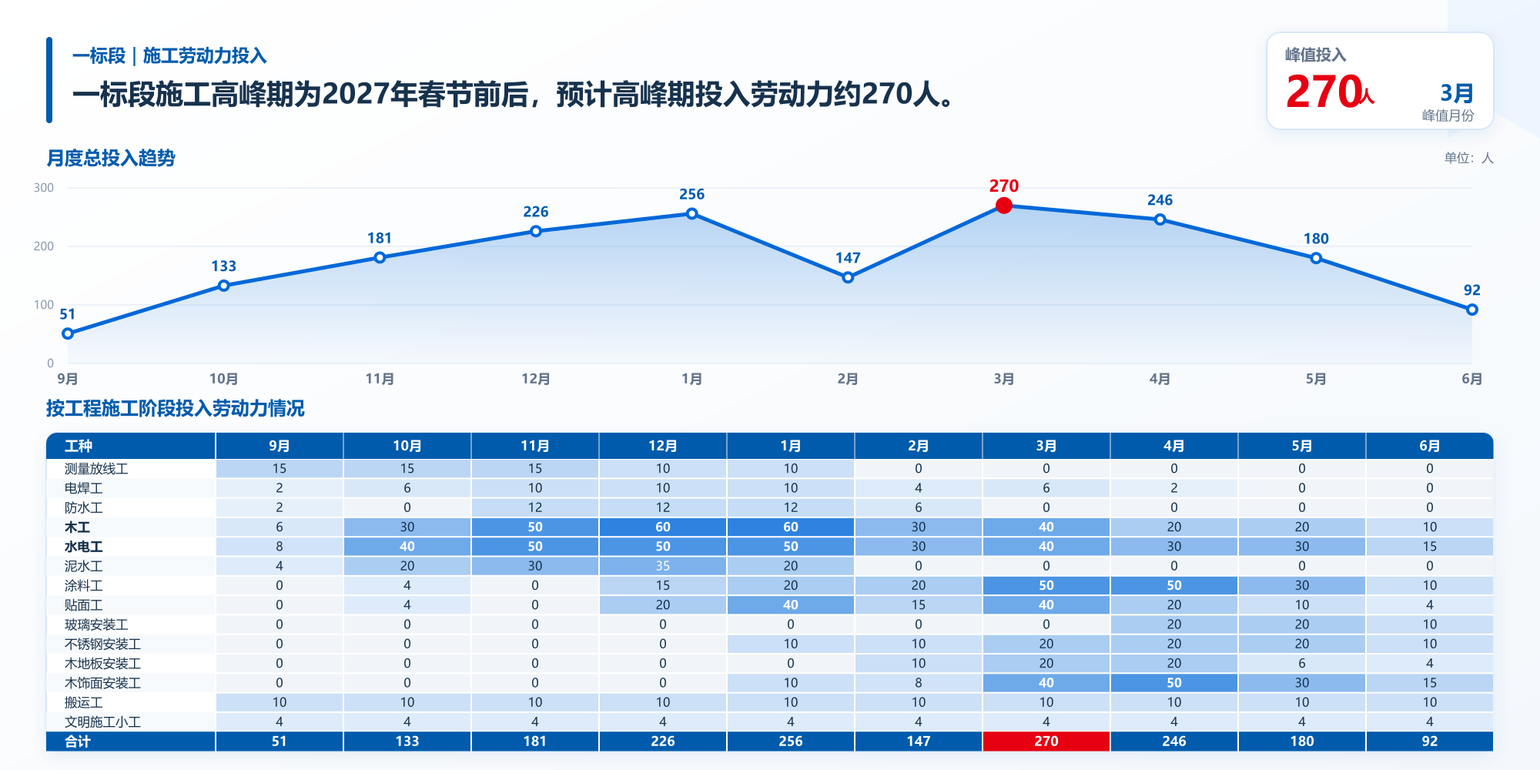
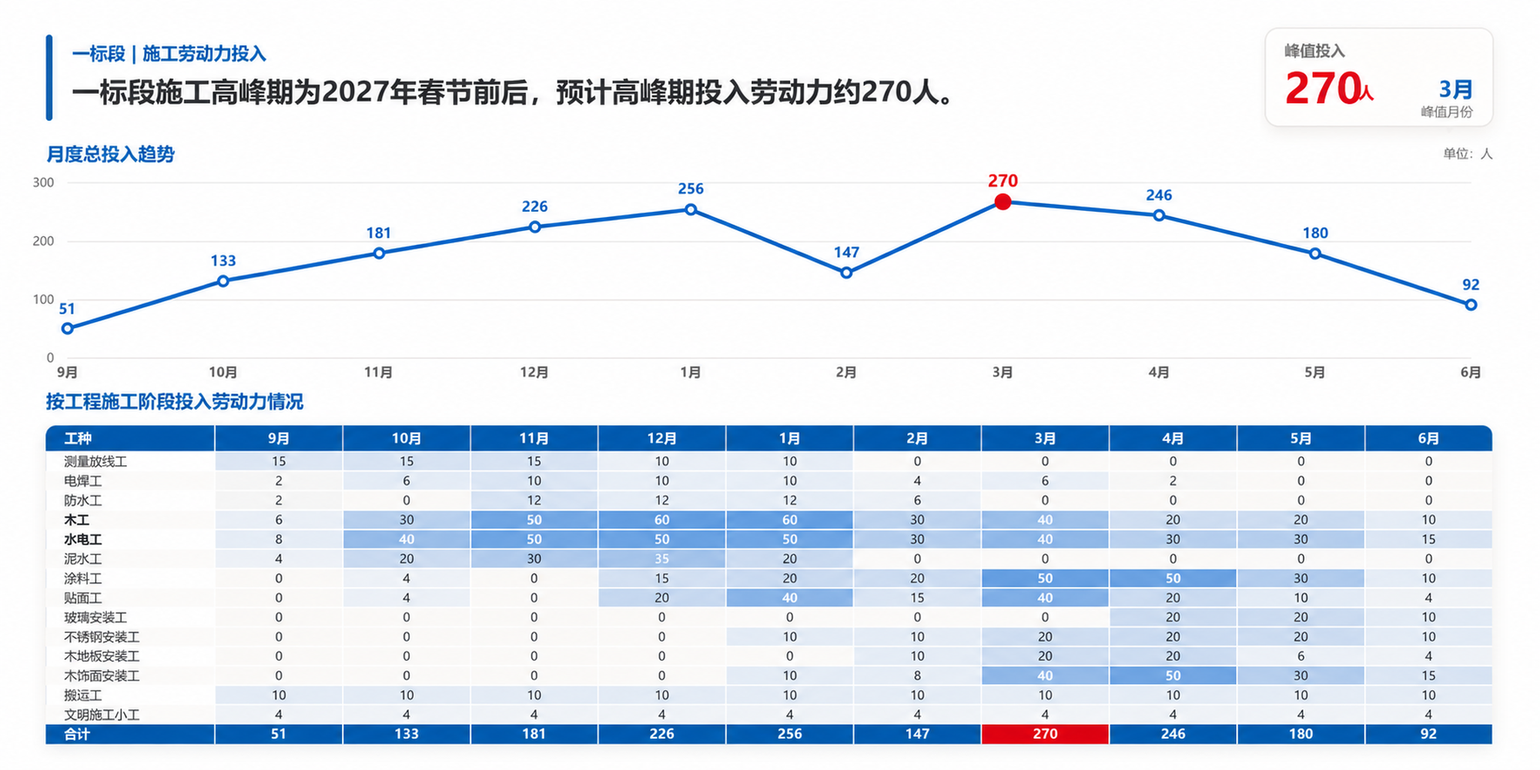
Release v0.4.0 with balanced color system

diff --git a/skills/unify-construction-ppt-visuals/scripts/build_prompts.py b/skills/unify-construction-ppt-visuals/scripts/build_prompts.py
@@ -12,11 +12,11 @@ from pathlib import Path
 
 
 STYLE_LOCK = """STYLE LOCK — SAME SERIES, NOT A NEW DESIGN:
-Create one standalone content-area image with an exact 2:1 aspect ratio, default 2000×1000, in the same approved corporate visual system. This image will be placed below the user's own slide header. Generate content only: no page header, title band, company name or logo, project-name banner, chapter label, page number or footer. The bottom canvas must be pure white #FFFFFF with no gradient, blueprint line art, grid, coordinates, noise, paper grain, watermark or any other texture. Texture, low-contrast line art and semantic color fills are permitted only inside cards and must be clipped cleanly to card boundaries. Every top-level PrimaryFrame must share the same vertical alignment rails: left edge x=3% and right edge x=97% (w=94%). Different internal column counts may not change those outer edges. Premium Chinese state-owned construction enterprise presentation aesthetic; restrained, modern, professional and digitally enabled. China Construction blue remains dominant: #005BAC, #0068D9 and #EAF4FF with white/pale blue-gray occupy 75–90% of the visual area. The only red is #E60012, used sparingly for verbatim critical numbers, dates, risks, key words or phrases, key actions, results or measures registered in critical_phrases; never color a whole sentence or paragraph red. Permit at most one semantic auxiliary color per page, covering 5–12% and never more than 15%: construction orange #F59E0B for construction stages/zones, digital teal #0F9FA8 for BIM/digital systems, acceptance green #2E9B65 for completion/acceptance, or neutral slate #64748B for secondary information. Use no auxiliary color when it has no clear semantic purpose. Exception only for risk-analysis-measures-series-v1: the fixed orange MeasuresHeader micro-marker may coexist at no more than 1% of the canvas with one additional semantic accent at no more than 3%; total chromatic auxiliary coverage still must not exceed 15%. Modular white cards with identical subtle corner radius, pale-blue hairline borders, cool soft shadow, consistent spacing and alignment. Realistic neutral engineering photography; preserve source architecture, materials, geometry, perspective and spatial relationships. No style reinterpretation between pages.
+Create one standalone content-area image with an exact 2:1 aspect ratio, default 2000×1000, in the same approved corporate visual system. This image will be placed below the user's own slide header. Generate content only: no page header, title band, company name or logo, project-name banner, chapter label, page number or footer. The bottom canvas must be pure white #FFFFFF with no gradient, blueprint line art, grid, coordinates, noise, paper grain, watermark or any other texture. Texture, low-contrast line art and semantic color fills are permitted only inside cards and must be clipped cleanly to card boundaries. Every top-level PrimaryFrame must share the same vertical alignment rails: left edge x=3% and right edge x=97% (w=94%). Different internal column counts may not change those outer edges. Premium Chinese state-owned construction enterprise presentation aesthetic; restrained, modern, professional and digitally enabled. Use pure white and light neutrals for 55–68% of the visual area. On analytical data pages such as workforce matrices, plans and statistical tables, when accent and micro_accent are both none and no source photography/material/equipment is present, do not add meaningless colors merely to satisfy the general ratio; white and light neutrals may expand to 68–82%. China Construction blue #005BAC, #0068D9 and #EAF4FF must still control key hierarchy, titles and data paths while occupying a target 18–25% and never more than 30%; keep saturated deep/standard blue around 8–15% rather than tinting every surface blue. Warm ivory #F7F4EE and warm gray #E8E2D8 may appear only inside cards, zero-value cells, dividers and non-data surfaces; the bottom canvas stays pure white. The only red is #E60012, normally below 3%, used sparingly for verbatim critical content registered in critical_phrases; never color a whole sentence or paragraph red. Permit one declared main semantic accent per page, targeting 6–10% and never more than 10%. Permit one different declared micro_accent only when a second source-grounded semantic state must be distinguished; keep it below 3% and keep main plus micro accents below 12%. Preserve source photography, materials, equipment and renderings in their real natural colors; when present, let those natural colors provide roughly 8–18% of the visual area and do not count them as UI accents. When source imagery is absent, do not invent it to satisfy a color ratio; use restrained warm-neutral card surfaces instead. Modular cards use white, warm ivory or pale blue according to hierarchy, with identical subtle corner radius, pale blue-gray or warm-neutral hairline borders, neutral soft shadow, consistent spacing and alignment. Avoid three or more consecutive PrimaryFrames with the same pale-blue fill. No style reinterpretation between pages.
 CONTENT FIDELITY AND DIAGRAM LOCK:
 Render each source fact, sentence or complete semantic unit exactly once. Never repeat the same paragraph in a summary, body card, caption or flow node to fill space. A diagram may use only the shortest labels needed to identify objects and relationships. When one source paragraph contains two or more independently understandable causes, conditions, actions, steps, results or recommendations, split it into faithful ordered bullet points without inventing headings, conclusions or hierarchy and without changing wording, causality or sequence. Build source_content_slots and visual_reasoning_plan before layout. Do not use a fixed visual priority order; combine retained source imagery, faithful bullet points and diagrams according to the page's communication task and evidence. Generate measures visuals only when the source explicitly contains measures. Absence of measures forbids invented solutions but does not forbid diagrams about existing analysis, thinking, questions, causes, conditions, mechanisms, effects, object relationships, processes, data or evidence. If two or more explicit relationships are difficult to scan as prose, diagram_opportunity is required. Unconnected icons, numbered cards or repeated text do not satisfy a required relationship or mechanism diagram. Use non-photorealistic engineering information graphics for added diagrams, not invented realistic project scenes. If technical detail is uncertain, verify it; research may clarify general depiction but may not add project facts. If uncertainty remains, downgrade to an abstract source-traceable relationship rather than assuming the whole page cannot contain a diagram. Never guess a construction detail, dimension, material layer, routing, cause or solution.
 NEGATIVE LOCK:
-No page header, title bar, company branding, logo, project banner, chapter marker, page number, footer, non-white bottom canvas, full-canvas texture, blueprint background, grid background, watermark, gradient background, top-level frames with different left/right edges, texture bleeding outside cards, purple, pink, burgundy, dark red, large yellow areas, undefined new colors, auxiliary color covering more than 15%, random color changes across pages, full red sentences or paragraphs, neon, cyberpunk, glassmorphism, cartoon icons, colored emoji, random gradients, heavy shadows, mixed icon families, floating centered headline, dense Word-table appearance, altered architecture, invented construction facts, repeated source paragraphs, duplicate text cards, unsupported schematics, inferred measures absent from the source, malformed hands, duplicated equipment, floating objects, inconsistent perspective or lighting."""
+No page header, title bar, company branding, logo, project banner, chapter marker, page number, footer, non-white bottom canvas, full-canvas texture, blueprint background, grid background, watermark, gradient background, top-level frames with different left/right edges, texture bleeding outside cards, purple, pink, burgundy, dark red, large yellow areas, undefined new colors, more than one main semantic accent, any undeclared micro_accent, micro_accent above 3%, main accent above 10%, combined main and micro accents above 12%, China Construction blue family above 30%, large uninterrupted pale-blue fields, source photos or materials globally tinted blue, random color changes across pages, full red sentences or paragraphs, neon, cyberpunk, glassmorphism, cartoon icons, colored emoji, random gradients, heavy shadows, mixed icon families, floating centered headline, dense Word-table appearance, altered architecture, invented construction facts, repeated source paragraphs, duplicate text cards, unsupported schematics, inferred measures absent from the source, malformed hands, duplicated equipment, floating objects, inconsistent perspective or lighting."""
 
 
 LAYOUTS = {
@@ -32,11 +32,19 @@ LAYOUTS = {
 }
 
 ACCENTS = {
-    "none": "No chromatic auxiliary color; use only the fixed blue system, neutrals, and the unique red when semantically required.",
-    "orange": "Use construction orange #F59E0B (pale tint #FFF4D6) only for construction stages, zones, or equipment; keep it within 5–12% of the page.",
-    "teal": "Use digital teal #0F9FA8 (pale tint #E6F7F7) only for BIM, digital systems, or data applications; keep it within 5–12% of the page.",
-    "green": "Use acceptance green #2E9B65 (pale tint #EAF7F0) only for completion, acceptance, or compliant status; keep it within 5–12% of the page.",
-    "slate": "Use neutral slate #64748B (pale tint #F1F5F9) only for secondary information and neutral states.",
+    "none": "No main chromatic auxiliary color. Use white/warm-neutral surfaces, the controlled blue hierarchy, source-natural colors, and the unique red only when semantically required; do not compensate by adding more blue.",
+    "orange": "Use construction orange #F59E0B (pale tint #FFF4D6) only for construction stages, zones, or equipment; target 6–10% and never exceed 10% of the page.",
+    "teal": "Use digital teal #0F9FA8 (pale tint #E6F7F7) only for BIM, digital systems, or data applications; target 6–10% and never exceed 10% of the page.",
+    "green": "Use acceptance green #2E9B65 (pale tint #EAF7F0) only for completion, acceptance, or compliant status; target 6–10% and never exceed 10% of the page.",
+    "slate": "Use neutral slate #64748B (pale tint #F1F5F9) only for secondary information and neutral states; it remains a neutral hierarchy color rather than a decorative hue.",
+}
+
+MICRO_ACCENTS = {
+    "none": "No micro accent. Do not add a second hue merely for visual variety.",
+    "orange": "Use construction orange #F59E0B only for a second, source-grounded construction-stage/zone/measure state; keep it below 3%.",
+    "teal": "Use digital teal #0F9FA8 only for a second, source-grounded BIM/digital state; keep it below 3%.",
+    "green": "Use acceptance green #2E9B65 only for a second, source-grounded completion/acceptance state; keep it below 3%.",
+    "slate": "Use slate #64748B only as a registered micro-level neutral state; keep it below 3%.",
 }
 
 DEFAULT_ACCENTS = {
@@ -47,9 +55,14 @@ DEFAULT_ACCENTS = {
     "bim": "teal",
     "schedule": "slate",
     "risk": "none",
-    "risk-analysis-measures-series": "orange",
+    "risk-analysis-measures-series": "none",
     "construction-zone-allocation": "orange",
     "labor-workforce-plan": "none",
+}
+
+DEFAULT_MICRO_ACCENTS = {
+    page_type: ("orange" if page_type == "risk-analysis-measures-series" else "none")
+    for page_type in DEFAULT_ACCENTS
 }
 
 DEFAULT_TEMPLATES = {
@@ -82,8 +95,9 @@ TEMPLATES = {
             "density state based on the supplied entities and image count. Keep the body outer frame and "
             "top/bottom baselines fixed. Render only 1–3 verbatim critical_phrases in #E60012; never color "
             "a full sentence or paragraph red. The fixed orange MeasuresHeader micro-marker may use at most "
-            "1% of the canvas; one additional semantic accent may use at most 3%; total auxiliary color remains "
-            "below 15%. Upgrade the template and migrate the whole series if content exceeds these states."
+            "1% of the canvas as micro_accent orange; one main semantic accent may target 6–10% and never "
+            "exceed 10%; main plus micro accents remain below 12%. Upgrade the template and migrate the whole "
+            "series if content exceeds these states."
         ),
     },
     "labor-workforce-plan-v1": {
@@ -280,6 +294,19 @@ def resolve_page(page: dict, warnings: list[str]) -> dict:
         warnings.append(f"Page {page.get('page', '?')}: unknown accent '{accent_name}', used '{fallback}'.")
         accent_name = fallback
 
+    micro_accent_name = str(page.get("micro_accent", DEFAULT_MICRO_ACCENTS[page_type]))
+    if micro_accent_name not in MICRO_ACCENTS:
+        fallback = DEFAULT_MICRO_ACCENTS[page_type]
+        warnings.append(
+            f"Page {page.get('page', '?')}: unknown micro_accent '{micro_accent_name}', used '{fallback}'."
+        )
+        micro_accent_name = fallback
+    if accent_name != "none" and accent_name == micro_accent_name:
+        raise ValueError(
+            f"Page {page.get('page', '?')}: accent and micro_accent cannot use the same non-none color "
+            f"'{accent_name}'. Use micro_accent 'none' or a different source-grounded semantic color."
+        )
+
     resolved = dict(page)
     visual_reasoning_plan = page.get("visual_reasoning_plan")
     if not visual_reasoning_plan:
@@ -303,6 +330,7 @@ def resolve_page(page: dict, warnings: list[str]) -> dict:
             "template_fingerprint": template_fingerprint(template_id),
             "series_key": str(page.get("series_key", page_type)),
             "accent": accent_name,
+            "micro_accent": micro_accent_name,
             "layout": TEMPLATES[template_id]["layout"],
             "semantic_model": semantic_model,
             "source_content_slots": source_content_slots,
@@ -317,14 +345,20 @@ def resolve_page(page: dict, warnings: list[str]) -> dict:
 
 
 def validate_series(pages: list[dict]) -> None:
-    locks: dict[tuple[str, str], tuple[str, str, str]] = {}
+    locks: dict[tuple[str, str], tuple[str, str, str, str]] = {}
     for page in pages:
         key = (page["series_key"], page["page_type"])
-        value = (page["template_id"], page["template_fingerprint"], page["accent"])
+        value = (
+            page["template_id"],
+            page["template_fingerprint"],
+            page["accent"],
+            page["micro_accent"],
+        )
         if key in locks and locks[key] != value:
             prior = locks[key]
             raise ValueError(
-                f"Series '{key[0]}' / page_type '{key[1]}' drifted: expected template/fingerprint/accent "
+                f"Series '{key[0]}' / page_type '{key[1]}' drifted: expected "
+                "template/fingerprint/accent/micro_accent "
                 f"{prior}, got {value} on page {page.get('page', '?')}."
             )
         locks[key] = value
@@ -368,8 +402,12 @@ Visual reasoning plan:
 {lines(page['visual_reasoning_plan'])}
 Diagram plan and evidence boundary:
 {lines(page['diagram_plan'])}
-Auxiliary color plan — {page['accent']}:
+Main auxiliary color plan — {page['accent']}:
 {ACCENTS[page['accent']]}
+Micro auxiliary color plan — {page['micro_accent']}:
+{MICRO_ACCENTS[page['micro_accent']]}
+Neutral-surface and source-natural-color plan:
+Keep white and light neutrals at 55–68%, China Construction blue at a target 18–25% and below 30%, saturated blue around 8–15%, and red below 3%. For analytical data pages with accent none, micro_accent none and no source imagery/material/equipment, white and light neutrals may expand to 68–82%; never add a meaningless business color to fill the difference. Use warm ivory #F7F4EE or warm gray #E8E2D8 only inside cards, zero-value cells, dividers and non-data surfaces. Preserve real source photography/material colors; when present, let them provide roughly 8–18% of the page without counting as UI accents. Never invent imagery or a second business color merely to reach a ratio.
 Allowed changes before template freeze: grouping, information architecture, hierarchy, visual form, line breaks, alignment and spacing. Allowed changes after template freeze: populate declared template slots only.
 Do not omit, summarize, translate, invent or alter any supplied text, number or engineering fact.
 Do not render any content slot absent from source_content_slots. Each source statement appears once. Split multi-point paragraphs faithfully and use evidence-based diagrams instead of repeated copy. Do not set diagram_opportunity to none merely because measures are absent. If diagram_opportunity is required, unconnected icons or numbered cards are not an acceptable substitute for a relationship or mechanism diagram.

diff --git a/skills/unify-construction-ppt-visuals/references/prompt-contract.md b/skills/unify-construction-ppt-visuals/references/prompt-contract.md
@@ -8,7 +8,7 @@
 STYLE LOCK — SAME SERIES, NOT A NEW DESIGN:
 IMAGEGEN EXECUTION LOCK — MANDATORY FOR EVERY PAGE:
 Use ImageGen to generate or edit this complete full-page 2:1 content-area bitmap. This is a per-page requirement: the ImageGen result must control the overall composition, spatial hierarchy, imagery integration, card system, icon treatment and visual finish. Do not satisfy this requirement by generating only a background, photo or small asset. Do not use an HTML/CSS webpage, SVG, Canvas, PPT shapes, frontend components or a dashboard screenshot as the final page image. Deterministic tools may only extract content, calculate data, verify dimensions, or apply small exact text/number/icon corrections on top of the ImageGen full-page composition; they may not replace or rebuild the overall layout. If ImageGen is unavailable, stop instead of falling back.
-Create one standalone content-area image with an exact 2:1 aspect ratio, default 2000×1000, in the same approved corporate visual system. This image will be placed below the user's own slide header. Generate content only: no page header, title band, company name or logo, project-name banner, chapter label, page number or footer. The bottom canvas must be pure white #FFFFFF with no gradient, blueprint line art, grid, coordinates, noise, paper grain, watermark or any other texture. Texture, low-contrast line art and semantic color fills are permitted only inside cards and must be clipped cleanly to card boundaries. Every top-level PrimaryFrame must share the same vertical alignment rails: left edge x=3% and right edge x=97% (w=94%). Measure alignment from the straight segment of each outermost visible border, not from shadows, rounded corners, text, padding or inner cards. The top, middle and bottom PrimaryFrames must place their left outer borders on one identical pixel column and their right outer borders on one identical pixel column. Different internal column counts may not change those outer edges. At 2000px canvas width, more than 2px same-side deviation is a hard failure requiring a local ImageGen correction. Premium Chinese state-owned construction enterprise presentation aesthetic; restrained, modern, professional and digitally enabled. China Construction blue remains dominant: #005BAC, #0068D9 and #EAF4FF with white/pale blue-gray occupy 75–90% of the visual area. The only red is #E60012, used sparingly for verbatim critical numbers, dates, risks, key words or phrases, key actions, results or measures registered in critical_phrases; never color a whole sentence or paragraph red. Permit at most one semantic auxiliary color per page, covering 5–12% and never more than 15%: construction orange #F59E0B for construction stages/zones, digital teal #0F9FA8 for BIM/digital systems, acceptance green #2E9B65 for completion/acceptance, or neutral slate #64748B for secondary information. Use no auxiliary color when it has no clear semantic purpose. Exception only for risk-analysis-measures-series-v1: the fixed orange MeasuresHeader micro-marker may coexist at no more than 1% of the canvas with one additional semantic accent at no more than 3%; total chromatic auxiliary coverage still must not exceed 15%. Modular white cards with identical subtle corner radius, pale-blue hairline borders, cool soft shadow, consistent spacing and alignment. Realistic neutral engineering photography; preserve source architecture, materials, geometry, perspective and spatial relationships. No style reinterpretation between pages.
+Create one standalone content-area image with an exact 2:1 aspect ratio, default 2000×1000, in the same approved corporate visual system. This image will be placed below the user's own slide header. Generate content only: no page header, title band, company name or logo, project-name banner, chapter label, page number or footer. The bottom canvas must be pure white #FFFFFF with no gradient, blueprint line art, grid, coordinates, noise, paper grain, watermark or any other texture. Texture, low-contrast line art and semantic color fills are permitted only inside cards and must be clipped cleanly to card boundaries. Every top-level PrimaryFrame must share the same vertical alignment rails: left edge x=3% and right edge x=97% (w=94%). Measure alignment from the straight segment of each outermost visible border, not from shadows, rounded corners, text, padding or inner cards. The top, middle and bottom PrimaryFrames must place their left outer borders on one identical pixel column and their right outer borders on one identical pixel column. Different internal column counts may not change those outer edges. At 2000px canvas width, more than 2px same-side deviation is a hard failure requiring a local ImageGen correction. Premium Chinese state-owned construction enterprise presentation aesthetic; restrained, modern, professional and digitally enabled. Use pure white and light neutrals for 55–68% of the visual area. On analytical data pages such as workforce matrices, plans and statistical tables, when accent and micro_accent are both none and no source photography/material/equipment is present, do not add meaningless colors merely to satisfy the general ratio; white and light neutrals may expand to 68–82%. China Construction blue #005BAC, #0068D9 and #EAF4FF must still control key hierarchy, titles and data paths while occupying a target 18–25% and never more than 30%; keep saturated deep/standard blue around 8–15% rather than tinting every surface blue. Warm ivory #F7F4EE and warm gray #E8E2D8 may appear only inside cards, zero-value cells, dividers and non-data surfaces; the bottom canvas stays pure white. The only red is #E60012, normally below 3%, used sparingly for verbatim critical numbers, dates, risks, key words or phrases, key actions, results or measures registered in critical_phrases; never color a whole sentence or paragraph red. Permit one declared main semantic accent per page, targeting 6–10% and never more than 10%: construction orange #F59E0B for construction stages/zones, digital teal #0F9FA8 for BIM/digital systems, acceptance green #2E9B65 for completion/acceptance, or neutral slate #64748B for secondary information. Permit one different declared micro_accent only when a second source-grounded semantic state must be distinguished; keep it below 3% and keep main plus micro accents below 12%. Use none when either accent has no clear semantic purpose. Preserve source photography, materials, equipment and renderings in their real natural colors; when present, let those natural colors provide roughly 8–18% of the visual area and do not count them as UI accents. When source imagery is absent, do not invent it to satisfy a color ratio; use restrained warm-neutral card surfaces instead. Modular cards use white, warm ivory or pale blue according to hierarchy, with identical subtle corner radius, pale blue-gray or warm-neutral hairline borders, neutral soft shadow, consistent spacing and alignment. Avoid three or more consecutive PrimaryFrames with the same pale-blue fill. No style reinterpretation between pages.
 ICON LOCK:
 Declare icon_mode before layout. Use semantic-line for abstract processes, stages, organizations, construction zones, floors, crews and management concepts. Use realistic-thumbnail for materials, equipment, samples, components and product categories when physical appearance improves recognition. Semantic-line uses only the bundled construction icon family: identical 24×24 viewBox, rounded 1.8px equivalent stroke, fixed container, size and position. Realistic-thumbnail uses isolated neutral product/material cutouts with one consistent 3/4 camera, scale, natural studio lighting, soft contact shadow, white or transparent-looking background, no text, no trademarks and no invented branding. Natural object colors do not count as UI accent colors. A page may use a semantic line icon for a section header and realistic thumbnails for item cards because the roles differ, but never mix line, cartoon, 3D-toy and realistic styles within one peer group. Never omit all visual identifiers on a triggering page and never reuse one identifier for unrelated meanings.
 CONTENT FIDELITY AND DIAGRAM LOCK:
@@ -16,7 +16,7 @@ Render each source fact, sentence or complete semantic unit exactly once. Never 
 SOURCE IMAGE RETENTION LOCK:
 Identify every original image in the source page's main content area that carries information, evidence or project facts, including site photos, engineering drawings, renderings, screenshots, diagrams and charts, and retain every one in the final page. Never omit, replace, cover or reduce an original content image until its key subject or annotation becomes unreadable merely to improve layout or make room for new visuals. You may crop, resize, color-correct, unify corner radius, add decorative frames or reposition an original image only when its factual content, key subject and essential annotations remain intact. New images and decorative graphics may supplement the page but may not substitute for an original content image. Header/footer logos, company marks and purely decorative background images are excluded and remain removable under the no-header/no-footer rule. Replace an original content image only when the user explicitly asks for that specific replacement.
 NEGATIVE LOCK:
-No page header, title bar, company branding, logo, project banner, chapter marker, page number, footer, non-white bottom canvas, full-canvas texture, blueprint background, grid background, watermark, gradient background, top-level frames with different left/right edges, texture bleeding outside cards, purple, pink, burgundy, dark red, large yellow areas, undefined new colors, multiple chromatic auxiliary colors on one page, auxiliary color covering more than 15%, random color changes across pages, neon, cyberpunk, glassmorphism, colored emoji, random gradients, heavy shadows, mixed visual-identifier modes within one peer group, branded or text-bearing realistic thumbnails, floating centered headline, dense Word-table appearance, altered architecture, invented construction facts, repeated source paragraphs, duplicate text cards, unsupported schematics, inferred measures absent from the source, malformed hands, duplicated equipment, floating objects, inconsistent perspective or lighting.
+No page header, title bar, company branding, logo, project banner, chapter marker, page number, footer, non-white bottom canvas, full-canvas texture, blueprint background, grid background, watermark, gradient background, top-level frames with different left/right edges, texture bleeding outside cards, purple, pink, burgundy, dark red, large yellow areas, undefined new colors, more than one main semantic accent, any undeclared micro_accent, micro_accent above 3%, main accent above 10%, combined main and micro accents above 12%, China Construction blue family above 30%, large uninterrupted pale-blue fields, source photos or materials globally tinted blue, random color changes across pages, neon, cyberpunk, glassmorphism, colored emoji, random gradients, heavy shadows, mixed visual-identifier modes within one peer group, branded or text-bearing realistic thumbnails, floating centered headline, dense Word-table appearance, altered architecture, invented construction facts, repeated source paragraphs, duplicate text cards, unsupported schematics, inferred measures absent from the source, malformed hands, duplicated equipment, floating objects, inconsistent perspective or lighting.
 ```
 
 不要为“更高级”加入新的风格词。抽象形容词越多，模型越容易重新解释风格。
@@ -41,7 +41,9 @@ Non-negotiable facts: {must_preserve}
 Source content slots actually present: {source_content_slots}
 Visual reasoning plan — communication task, source relationships, diagram opportunity required/useful/none, chosen form, evidence mapping, and omission reason when none: {visual_reasoning_plan}
 Diagram plan, with source or verification evidence for every diagram: {diagram_plan}
-Auxiliary color plan: {accent_plan}
+Main auxiliary color plan: {accent_plan}
+Optional micro auxiliary color plan: {micro_accent_plan}
+Neutral-surface and source-natural-color plan: {neutral_natural_color_plan}
 Allowed changes before template freeze: grouping, information architecture, hierarchy, visual form, line breaks, alignment and spacing.
 Allowed changes after template freeze: populate fixed slots only.
 Do not omit, summarize, translate, invent or alter any supplied text, number or engineering fact.
@@ -106,13 +108,13 @@ Render only the 1–3 verbatim entries listed in critical_phrases in #E60012. A 
 |---|---:|---|
 | 语义与内容准确 | 25 | 页面目的、实体、关系、阅读顺序正确；文字、数字和施工顺序完整 |
 | 原图保真 | 20 | 建筑、材质、比例、空间、BIM 关系未变 |
-| 色彩一致 | 15 | 中建蓝占主导；辅助色语义与占比合规；唯一红；无禁用色 |
+| 色彩一致 | 15 | 白/浅中性色、中建蓝、主辅助色、微辅助色与自然色比例合规；冷暖层次清楚；唯一红；无禁用色 |
 | 构图一致 | 15 | 内容网格、边距、卡片系统稳定，无页面标题区；应触发时主要模块视觉标识完整且模式统一 |
 | 模板一致 | 10 | 同类页面模板 ID、指纹、组件树、坐标、槽位顺序完全相同 |
 | 图片一致 | 10 | 色温、曝光、裁切、设备融合真实 |
 | 输出合规 | 5 | 一页一图、严格 2:1、仅内容区、无表头页脚、无拼图 |
 
-未建立语义模型、`source_content_slots` 或 `visual_reasoning_plan`、因没有措施而直接把其他已有分析/思考/原因/机制/影响/关系内容判为不可图示、存在两个及以上清晰关系且段落难以扫描却无可信理由地声明 `diagram_opportunity: none`、`diagram_opportunity: required` 时只放互不连接的图标/编号卡/重复文字而未表达关系、任一页面未独立调用 ImageGen 完成整页生成/编辑、ImageGen 只生成局部素材、最终整页由 HTML/CSS/SVG/Canvas/PPT/前端组件截图生成、同一原文事实或段落重复出现、长段落存在多个独立要点却未合理分点、分点改变原文逻辑、源页主要内容区的原有照片、工程图纸、效果图、截图、示意图或图表被遗漏、替换、遮挡、裁掉关键主体/标注或缩小到无法辨认、新增配图取代原图、示意图错误或无来源依据、对不确定专业内容未经核验便生成、源页没有措施却生成措施栏/措施图/解决方案、源页没有结果/责任/时间/验收/价值却生成对应内容、语义关系表达错误、任一内容错误、原图结构改变、同类页面模板 ID/指纹不一致、组件坐标漂移、一级框架左右边界不共线、默认2000px宽画布上任意两个 `PrimaryFrame` 的同侧可见外边框偏差超过2px、画布底层不是纯白、卡片外出现纹理/渐变/蓝图线稿/网格/水印、应触发视觉标识却整页无标识或主要模块缺标识、未声明 `icon_mode`、标识语义错误或同层级混用线性/卡通/3D/写实模式、写实缩略图含商标、文字、水印、禁用色、辅助色超过 15%、超出已登记例外的单页多种彩色辅助色、非 2:1 比例或任何表头/页脚元素出现都算硬失败，不因总分较高而放行。`risk-analysis-measures-series-v1` 只允许用于源页明确同时含分析和措施的页面；若符合条件但“分析/措施”任一标题的文字、字体、字号、图标、底板、坐标、间距或对齐线不同，或缺少任一标题，同样为硬失败；同一页内“分析”和“措施”字体家族或字号不相等也直接判为硬失败。红色若不对应 `critical_phrases` 原文、超过 3 处或整句整段铺红，也为硬失败。合格线为 90 分。
+未建立语义模型、`source_content_slots` 或 `visual_reasoning_plan`、因没有措施而直接把其他已有分析/思考/原因/机制/影响/关系内容判为不可图示、存在两个及以上清晰关系且段落难以扫描却无可信理由地声明 `diagram_opportunity: none`、`diagram_opportunity: required` 时只放互不连接的图标/编号卡/重复文字而未表达关系、任一页面未独立调用 ImageGen 完成整页生成/编辑、ImageGen 只生成局部素材、最终整页由 HTML/CSS/SVG/Canvas/PPT/前端组件截图生成、同一原文事实或段落重复出现、长段落存在多个独立要点却未合理分点、分点改变原文逻辑、源页主要内容区的原有照片、工程图纸、效果图、截图、示意图或图表被遗漏、替换、遮挡、裁掉关键主体/标注或缩小到无法辨认、新增配图取代原图、示意图错误或无来源依据、对不确定专业内容未经核验便生成、源页没有措施却生成措施栏/措施图/解决方案、源页没有结果/责任/时间/验收/价值却生成对应内容、语义关系表达错误、任一内容错误、原图结构改变、同类页面模板 ID/指纹不一致、组件坐标漂移、一级框架左右边界不共线、默认2000px宽画布上任意两个 `PrimaryFrame` 的同侧可见外边框偏差超过2px、画布底层不是纯白、卡片外出现纹理/渐变/蓝图线稿/网格/水印、应触发视觉标识却整页无标识或主要模块缺标识、未声明 `icon_mode`、标识语义错误或同层级混用线性/卡通/3D/写实模式、写实缩略图含商标、文字、水印、禁用色、中建蓝色系超过30%、主辅助色超过10%、`micro_accent` 超过3%、主/微辅助色合计超过12%、出现未登记的第二辅助色、连续大面积浅蓝铺底、源照片或材料被统一染蓝、非2:1比例或任何表头/页脚元素出现都算硬失败，不因总分较高而放行。`risk-analysis-measures-series-v1` 只允许用于源页明确同时含分析和措施的页面；若符合条件但“分析/措施”任一标题的文字、字体、字号、图标、底板、坐标、间距或对齐线不同，或缺少任一标题，同样为硬失败；同一页内“分析”和“措施”字体家族或字号不相等也直接判为硬失败。红色若不对应 `critical_phrases` 原文、超过3处或整句整段铺红，也为硬失败。合格线为90分。
 
 对 `labor-workforce-plan` 追加硬校验：矩阵逐列求和必须等于合计行；折线节点必须等于合计行；PeakCard 的精确峰值与月份必须等于合计行最大值及其列；红色只能落在全部并列最大值上。任一不一致均为硬失败。
 

diff --git a/skills/unify-construction-ppt-visuals/references/style-bible.md b/skills/unify-construction-ppt-visuals/references/style-bible.md
@@ -9,6 +9,8 @@
 | 深蓝 | `#005BAC` |
 | 标准蓝 | `#0068D9` |
 | 浅蓝 | `#EAF4FF` |
+| 暖象牙 | `#F7F4EE`；只用于卡片内部、零值单元格和非数据承载面，不得替代纯白画布 |
+| 暖灰 | `#E8E2D8`；只用于中性分隔、细描边和低对比层次，不表示业务状态 |
 | 强调红 | `#E60012`，全套唯一红色 |
 | 工程橙 | `#F59E0B` / 浅色 `#FFF4D6`；施工阶段、分区、机械 |
 | 数字青 | `#0F9FA8` / 浅色 `#E6F7F7`；BIM、数字化、信息系统 |
@@ -16,7 +18,7 @@
 | 蓝灰 | `#64748B` / 浅色 `#F1F5F9`；次要信息、中性状态 |
 | 正文 | 深蓝灰，不用纯黑大标题 |
 | 图标/缩略图 | 抽象语义使用同一套蓝色线性图标；材料、设备和构配件可使用统一光影的写实小图；同层级统一模式、视觉尺寸、容器与位置 |
-| 卡片 | 轻圆角、白底、细浅蓝描边、极轻冷灰阴影 |
+| 卡片 | 轻圆角；白、暖象牙、浅蓝按层级选用；细浅蓝或暖灰描边；极轻中性阴影 |
 | 标签 | 标准蓝底或浅蓝底；同层级同高度 |
 | 摄影 | 写实、自然中性光、工程现场真实质感 |
 | 装饰 | 只能放在卡片内部并裁切于卡片边界；允许低对比纹理、浅色填充、细线或坐标点，不得污染画布底层 |
@@ -45,13 +47,17 @@
 
 ### 配色占比与使用规则
 
-- 中建蓝 + 白色 + 浅蓝灰必须占视觉面积 75%–90%，保持品牌主导。
-- 彩色辅助色占 5%–12%，硬上限 15%；仅用于小标签、节点、细线、图标局部、数字底片或模型分区。
-- 每页默认最多使用一种彩色辅助色；蓝灰视为中性色，可共存。照片中的自然色不计入界面配色数量。`risk-analysis-measures-series-v1` 可额外保留工程橙“措施”微标识（不超过画布 1%）和一种不超过 3% 的语义色，全部彩色辅助色合计仍不得超过 15%。
-- 强调红 `#E60012` 不属于辅助色，只表示关键数字、日期、风险、关键动作、关键词组或核心措施，面积通常不超过 5%。标红内容必须逐字来自原文并预先登记到 `critical_phrases`；每页优先 1–3 处，禁止整句整段铺红。
+- 纯白与浅中性色（白、暖象牙、浅蓝灰、暖灰）目标占视觉面积 55%–68%。画布底层仍必须是纯白；暖象牙和暖灰只能用于卡片内部、零值单元格、分隔和非数据承载面。
+- 当页面同时满足 `accent: none`、`micro_accent: none`、没有源照片/材料/设备，且属于劳动力矩阵、计划表、统计表等分析型数据页时，不得为了凑色额外引入业务色；此时纯白与浅中性色可自然放宽到 68%–82%，仍须保持中建蓝 18%–25% 的目标区间和 30% 的硬上限。
+- 中建蓝色系目标占视觉面积 18%–25%，复杂数据页可放宽但不得超过 30%。其中深蓝与标准蓝等高饱和蓝合计宜控制在 8%–15%，其余用浅蓝完成层级。品牌主导来自关键层级、标题、数据主线和重复语义的一致性，不等于把每个表面都染蓝。
+- 每页允许一种主语义辅助色，目标占 6%–10%、硬上限 10%；仅用于有来源依据的小标签、节点、细线、图标局部、数字底片或模型分区。
+- 当页面确有第二个需要区分的语义状态时，可登记一种不同色相的 `micro_accent`，面积不得超过 3%；主辅助色与微辅助色合计不得超过 12%。没有第二语义时必须使用 `micro_accent: none`，不得为了“更丰富”增加颜色。
+- 照片、材料、设备和效果图中原本存在的自然色不计入 UI 辅助色。页面含这些源图时，优先让其自然色占约 8%–18% 以形成真实冷暖层次；页面没有源图时不得为了配色占比虚构照片或材料，可改用 8%–15% 的暖中性卡片表面补足温度层次。
+- 强调红 `#E60012` 不属于辅助色，只表示关键数字、日期、风险、关键动作、关键词组或核心措施，通常控制在 3% 以内且不是必须达到的目标。标红内容必须逐字来自原文并预先登记到 `critical_phrases`；每页优先 1–3 处，禁止整句整段铺红。
 - 连续句子中的非数字关键词允许并推荐标红。选取对象应是能够独立表达管理重点的完整原文短语，例如施工方法、控制动作、关键对象、约束或结果；只改变该短语字符颜色，句中其他文字、空格和标点保持正文色。
-- 先按语义选色，再按整套复用。禁止同一语义跨页换色，也禁止同一种颜色一会儿表示完成、一会儿表示风险。
+- 先按语义选色，再按整套复用。每页在内容账本登记 `accent`、`micro_accent`、自然色来源和暖中性表面用途；禁止同一语义跨页换色，也禁止同一种颜色一会儿表示完成、一会儿表示风险。
 - 没有明确语义时使用 `none` 或蓝灰，不要强行增加颜色。
+- 避免连续三个以上一级模块全部使用同一种浅蓝底。优先用白、暖象牙和浅蓝按信息层级分配表面，不做无意义的棋盘格交替。
 
 推荐映射：
 
@@ -62,7 +68,7 @@
 | BIM、智慧工地、数字平台 | 数字青 |
 | 验收、交付、完成状态、质量达标 | 验收绿 |
 | 项目概况、工期计划、通用信息 | 蓝灰或不使用 |
-| 劳动力计划、工种投入矩阵 | 不使用辅助色；中建蓝呈现趋势与热力强度，唯一红只标峰值 |
+| 劳动力计划、工种投入矩阵 | 主、微辅助色均为 `none`；中建蓝呈现趋势与热力强度，暖象牙/中性灰承载零值和非数据表面，唯一红只标峰值 |
 | 风险与关键日期 | 仍使用唯一强调红，不新加风险色 |
 
 ## 2. 视觉身份
@@ -115,7 +121,7 @@
 
 ### labor-workforce-plan
 
-默认使用 `labor-workforce-plan-v1`：顶部管理结论与峰值卡，中部月度合计趋势，下部工种投入热力矩阵。该类页面强调数据分析，不添加装饰性图标；峰值卡、折线峰值和合计行峰值必须是同一个精确值。折线与热力矩阵共享中建蓝尺度，红色只标峰值，不把整页做成互联网数据大屏。
+默认使用 `labor-workforce-plan-v1`：顶部管理结论与峰值卡，中部月度合计趋势，下部工种投入热力矩阵。该类页面强调数据分析，不添加装饰性图标；峰值卡、折线峰值和合计行峰值必须是同一个精确值。折线与热力矩阵共享中建蓝尺度，零值和非数据表面优先使用暖象牙或近白中性灰，红色只标峰值，不把整页做成互联网数据大屏，也不得让浅蓝铺满所有留白。
 
 ## 4. 图片规则
 
@@ -138,7 +144,7 @@
 - 三个及以上重复模块/阶段、设备措施清单、材料/构配件清单、施工区/楼层/班组映射必须使用视觉标识；不得整页省略。
 - `icon_plan` 必须先选择模式：`semantic-line` 用于流程、阶段、组织、区域、楼层、班组、风险和管理概念；`realistic-thumbnail` 用于材料、设备、样品、构配件和产品类别。
 - `semantic-line` 默认使用 `assets/icons/construction-line-icons.svg`，采用 24×24 视框、圆角端点、1.8px 等效线宽；常规颜色为中建蓝，施工分区/机械允许工程橙，完成/验收允许验收绿。
-- `realistic-thumbnail` 使用单一物体或小型组合的写实抠图：白色或透明感背景、统一约 3/4 视角、自然中性棚拍光、柔和接触阴影、无文字、无商标、无水印、无虚构品牌。自然材料颜色不计入界面辅助色数量。
+- `realistic-thumbnail` 使用单一物体或小型组合的写实抠图：白色、暖象牙或透明感背景、统一约 3/4 视角、自然中性棚拍光、柔和接触阴影、无文字、无商标、无水印、无虚构品牌。自然材料颜色不计入界面辅助色数量，并在有真实来源时承担页面冷暖平衡，禁止统一染蓝。
 - 写实缩略图固定在同尺寸的 1:1 或近方形容器中，主体占容器 68%–82%；同一系列的机位、比例、光向、阴影强度和裁切必须一致，禁止有的俯视、有的正视、有的卡通渲染。
 - 同一层级只允许一种模式。栏目标题可使用线性图标、条目卡可同时使用写实缩略图，因为二者角色不同；不得在同一组条目卡中混用线性图标、卡通贴纸、3D 玩具渲染和写实照片。
 - 每个主要模块只放一个主要标识，标识用于识别语义，不作为装饰填空，不替代名称或精确数字。完整模式判定与例外见 `icon-system.md`。
@@ -146,4 +152,4 @@
 
 ## 7. 禁用清单
 
-紫色、粉色、暗红、酒红、大面积黄色、未经定义的新色、辅助色大面积铺底、超出 `risk-analysis-measures-series-v1` 例外的单页多种彩色辅助色、跨页随机换色、整句整段标红、卡片外的任何纹理或渐变、画布底层蓝图线稿/网格/水印、一级框架左右边界错位、彩色 emoji、同层级混用线性/卡通/3D/写实标识、写实缩略图带品牌或文字、厚重投影、强玻璃拟态、霓虹光、过度发光边框、随机圆角、不同图标库混用、页面表头、标题栏、企业标识、项目横幅、页码、页脚、漂浮居中大标题、无对齐依据的装饰、改变原图空间、自动补写施工事实。
+紫色、粉色、暗红、酒红、大面积黄色、未经定义的新色、辅助色大面积铺底、未登记的第二彩色辅助色、`micro_accent` 超过 3%、主辅助色与微辅助色合计超过 12%、中建蓝色系超过 30%、连续大面积浅蓝铺底、把自然照片或材料统一染蓝、跨页随机换色、整句整段标红、卡片外的任何纹理或渐变、画布底层蓝图线稿/网格/水印、一级框架左右边界错位、彩色 emoji、同层级混用线性/卡通/3D/写实标识、写实缩略图带品牌或文字、厚重投影、强玻璃拟态、霓虹光、过度发光边框、随机圆角、不同图标库混用、页面表头、标题栏、企业标识、项目横幅、页码、页脚、漂浮居中大标题、无对齐依据的装饰、改变原图空间、自动补写施工事实。

diff --git a/skills/unify-construction-ppt-visuals/references/template-registry.md b/skills/unify-construction-ppt-visuals/references/template-registry.md
@@ -41,7 +41,7 @@
 
 - `page_type`: `construction-zone-allocation`
 - `template_id`: `construction-zone-allocation-v1`
-- 默认辅助色：`orange`
+- 默认主辅助色：`orange`；默认微辅助色：`none`
 - 固定组件树：`Canvas > SummaryCard + ZoneCardA + FloorSpine + ZoneCardB + ParallelConnector + ResourceHeatmap`
 
 | 组件 | x | y | w | h | 固定规则 |
@@ -59,6 +59,7 @@
 - FloorSpine 始终保留 8 个位置。设备层或不施工层使用蓝灰斜纹 `excluded` 状态；数据不足使用 `empty` 状态，不删除槽位。超过 8 个楼层时升级为新模板版本并让同组页面全部迁移。
 - CrewChip 顺序固定为木工、水电、泥水、涂料；缺项显示 0 或“未配置”，不改变顺序，不换图标。
 - ResourceHeatmap 外框和总计位置固定。户型/资源列数可变，但在外框内等分；相同字段沿用同一颜色强度映射。
+- 工程橙控制在 6%–10%，只落在施工区、阶段和机械语义；非施工状态使用暖象牙或蓝灰中性表面，禁止把三大主体区全部铺成浅蓝。
 - TotalBadge 固定在 SummaryCard 右端，不得在不同页面移到热力表旁或页面角落。
 - 图标只用于稳定语义：施工区、楼层、班组、并行、资源总计。不得按页随机使用工人、建筑、齿轮等不同隐喻。
 - 图标不是可选装饰。两张 ZoneCard 固定使用 `zone`，FloorSpine 使用 `floors`，四类 CrewChip 使用 `crew`，ParallelConnector 使用 `parallel`，ResourceHeatmap 总计使用 `shared`；几何按 `icon-system.md` 冻结。
@@ -67,7 +68,7 @@
 
 - `page_type`: `labor-workforce-plan`
 - `template_id`: `labor-workforce-plan-v1`
-- 默认辅助色：`none`；仅用中建蓝、浅蓝灰与唯一强调红
+- 默认主辅助色：`none`；默认微辅助色：`none`；使用中建蓝、白、暖象牙、浅中性灰与唯一强调红
 - 默认视觉锚点：`assets/templates/labor-workforce-plan-v1.png`
 - 固定组件树：`Canvas > InsightBlock + PeakCard + TrendChart + WorkforceHeatmap`
 
@@ -84,11 +85,13 @@
 - InsightBlock 的内容标签优先使用“{标段/区域}｜施工劳动力投入”；管理结论逐字使用源文。源文缺失时仅使用数据派生固定句式，不补写原因。
 - PeakCard 显示精确最大合计 `peak_value` 和 `peak_month`；“约 230 人”等近似描述只能留在源文结论中，不得替代精确峰值。
 - TrendChart 的横轴时段顺序与矩阵列顺序完全相同。纵轴从 0 起，刻度上限取不小于峰值的整洁档位；禁止截断纵轴制造夸张变化。折线、面积、节点、数值标签坐标固定由数据计算。
-- WorkforceHeatmap 首列固定为工种，末行固定为合计。单元格蓝色强度按全矩阵统一数值域映射；0 值使用最浅底色，禁止按单行分别归一化导致跨工种不可比较。
-- 工种行顺序遵循源数据，不得按人数重新排序。需要突出持续主力工种时只允许加粗工种名和高值数字，不新增第二种彩色辅助色。
+- WorkforceHeatmap 首列固定为工种，末行固定为合计。单元格蓝色强度按全矩阵统一数值域映射；0 值使用暖象牙 `#F7F4EE` 或近白中性灰，低值才进入浅蓝，高值使用中蓝，禁止按单行分别归一化导致跨工种不可比较。
+- 本模板默认 `accent: none`、`micro_accent: none` 且不依赖源图，因此白色与浅中性色可占 68%–82%；中建蓝目标仍为 18%–25%、硬上限 30%。不得为了补足通用配色比例添加橙、青、绿或其他无数据语义的色块。
+- 工种行顺序遵循源数据，不得按人数重新排序。需要突出持续主力工种时只允许加粗工种名和高值数字，不新增主辅助色或微辅助色。
 - 红色仅用于 `peak_value`：PeakCard 数字、TrendChart 峰值节点/标签、合计行对应单元格。其他月份与普通热力单元格不得使用红色。
 - 月份/时段槽位支持 6–12 列，工种支持 8–16 行；在固定外框内等分列宽和行高。超出容量时升级模板版本并迁移同系列全部页面，不得局部压扁字号。
 - 不使用装饰性小图标。该页的精确数据图表与矩阵本身构成主要视觉语法，声明 `icon_plan: none — exact analytical matrix`。
+- 该页蓝色系目标占 18%–25%，复杂矩阵不得超过 30%；图表外的非数据表面优先使用白、暖象牙和暖灰细描边，禁止用浅蓝填满所有留白。红色只承担峰值，不为了达到面积比例扩大红色。
 - 渲染前计算 `monthly_totals = sum(trade_rows)`、`peak_value = max(monthly_totals)`、`peak_month = argmax(monthly_totals)`，并核对源合计行。若并列峰值，所有并列峰值节点使用红色，但 PeakCard 按时间顺序列出月份，不擅自只选一个。
 
 ## labor-workforce-plan-long-v1
@@ -96,7 +99,7 @@
 - `page_type`: `labor-workforce-plan`
 - `template_id`: `labor-workforce-plan-long-v1`
 - 适用容量：13–30 个连续月份、8–16 个工种
-- 默认辅助色：`none`；仅用中建蓝、浅蓝灰与唯一强调红
+- 默认主辅助色：`none`；默认微辅助色：`none`；使用中建蓝、白、暖象牙、浅中性灰与唯一强调红
 - 类型级视觉锚点：`assets/templates/labor-workforce-plan-v1.png`
 - 固定组件树：`Canvas > PhaseInsightA + PhaseInsightB + PeakCard + LongTrendChart + LongWorkforceHeatmap`
 
@@ -114,16 +117,18 @@
 - 两个阶段结论逐字保留源文，不用精确峰值反向改写原文中的“约”“高峰期范围”等管理表达；PeakCard 单独显示由矩阵计算得到的全周期精确峰值。
 - LongTrendChart 和 LongWorkforceHeatmap 共享同一 13–30 列等分时段网格，并按年份增加固定分组表头。横轴不得抽样、合并月份或省略零值月份。
 - 趋势图节点、合计行和 PeakCard 必须引用同一 `monthly_totals`。红色只落在全部并列最大值对应的 PeakCard 数字、趋势节点/标签与合计单元格。
-- 热力矩阵首列固定为工种，末行固定为合计；工种顺序与源表一致。全矩阵采用统一中建蓝强度域，0 值使用最浅底色。
+- 热力矩阵首列固定为工种，末行固定为合计；工种顺序与源表一致。全矩阵采用统一中建蓝强度域，0 值使用暖象牙或近白中性灰，低值才进入浅蓝。
 - 26–30 列时允许矩阵数字使用该模板登记的小号数据字级，但阶段结论、峰值卡和趋势标签不得缩小；不得为单页改变框架坐标、列间距或年份分组高度。
 - `icon_plan: none — exact analytical matrix`。该类型不添加装饰性图标，数据图表和热力矩阵本身构成视觉语法。
+- 长周期页同样控制蓝色系不超过 30%，并用白/暖中性非数据表面分隔年份与阶段，不允许用第二业务色区分年份。
+- 本模板同样适用分析页比例例外：默认主、微辅助色均为 `none` 且无源图时，白色与浅中性色可占 68%–82%，不得为了凑色增加无语义的业务色。
 - 所有 PrimaryFrame 继续使用全局 `x=3%`、`right=97%` 对齐线；默认 2000px 宽画布同侧边界误差不得超过 2px。
 
 ## risk-analysis-measures-series-v1
 
 - `page_type`: `risk-analysis-measures-series`
 - `template_id`: `risk-analysis-measures-series-v1`
-- 固定系列辅助色：工程橙只用于“措施”短线微标识；页面可按语义使用至多一种不超过 3% 的补充色
+- 固定微辅助色：`orange`，只用于“措施”短线微标识且不超过 1%；页面主辅助色按语义选择，目标 6%–10%、硬上限 10%，主/微合计不得超过 12%
 - 固定组件树：`Canvas > AnalysisHeader + MeasuresHeader + ContentBody`
 
 | 组件 | x | y | w | h | 固定规则 |
@@ -151,7 +156,7 @@
 - `page_type`: `overview`
 - `template_id`: `material-quantity-top10-v1`
 - 适用内容：6–10 类主要材料/设备的工程量对比，同时需要保留逐项详细说明
-- 默认辅助色：`none`；界面只用中建蓝、白、浅蓝灰与唯一强调红，材料缩略图的自然色不计入辅助色
+- 默认主辅助色：`none`；默认微辅助色：`none`；界面使用中建蓝、白、暖象牙、浅中性灰与唯一强调红，材料缩略图的自然色不计入辅助色
 - 固定组件树：`Canvas > InsightLine + QuantityRanking + MaterialDetailGrid`
 - 固定 `icon_plan`: `section-header -> semantic-line`; `QuantityRanking -> none — exact bar chart`; `MaterialDetailGrid items -> realistic-thumbnail`
 
@@ -167,6 +172,7 @@
 - 工程量单位逐字保留。不同量纲可以同页比较展示，但不得伪装为可直接相加的统一统计口径；柱高只表达源页登记的排名或采用注明的视觉缩放。
 - `MaterialDetailGrid` 容量为 6–10 项；6 项使用 2×3，7–8 项使用 2×4，9–10 项使用 2×5。两行卡片高度相等，同列边界对齐。
 - 写实缩略图遵循 `icon-system.md` 的 `realistic-thumbnail`：统一约 3/4 视角、白底抠图、中性棚拍光、柔和接触阴影、无品牌、无文字。材料自然色只用于物体本身，UI 仍由中建蓝主导。
+- 材料自然色在有真实来源时优先承担约 8%–18% 的页面色彩层次；禁止给木材、石材、金属和玻璃统一套蓝色滤镜。无材料图时不得为配色丰富虚构材料缩略图。
 - 栏目级小图标可使用 `semantic-line`，下方材料明细卡使用 `realistic-thumbnail`；不得在上方工程量柱中放图标或缩略图，也不得在下方材料条目中混入线性或卡通图标。
 - 红色默认只用于登记过的关键结论短语与逐项数量；当页面的分析任务就是工程量排名时，10 个数量属于一个“分析数据系列”，允许整组使用唯一强调红，不受通常 1–3 个短语上限约束，但红色面积仍不得超过画布 5%。
 - 所有文字和工程说明逐字保留；密度不足时先缩短行宽、压缩段间距，再使用模板登记的小号注释字级，不能删项或概括。

diff --git a/skills/unify-construction-ppt-visuals/references/icon-system.md b/skills/unify-construction-ppt-visuals/references/icon-system.md
@@ -30,7 +30,7 @@
 
 - 视框：`24 24`。
 - 线条：无填充、圆角端点/连接、1.8px 等效线宽。
-- 常规颜色：`#005BAC`；施工机械/分区可用唯一工程橙 `#F59E0B`；完成/验收可用 `#2E9B65`。
+- 常规颜色：`#005BAC`；施工机械/分区可用已登记的工程橙 `#F59E0B`；完成/验收可用已登记的 `#2E9B65`。若图标使用页面 `micro_accent`，该色必须已经进入配色账本且整页微辅助色面积不超过 3%。
 - 图标容器：同页统一为浅蓝圆角方形或蓝色圆形，44–56px；不得混用两种容器。
 - 同层级图标位置固定：标题左侧或卡片左上角，二选一并冻结。
 - 每个主要模块最多一个图标；图标不替代文字，不承担精确数字表达。
@@ -38,11 +38,11 @@
 ## 4. realistic-thumbnail 固定语言
 
 - 主体：单一材料/设备，或能表达类别的最小组合，不放无关道具。
-- 背景：白色或透明感抠图底；不得使用完整施工场景冒充小图标。
+- 背景：白色、暖象牙 `#F7F4EE` 或透明感抠图底；不得使用完整施工场景冒充小图标。
 - 机位：统一约 3/4 视角；板材和卷材可使用统一轻微俯视，整组不可跳视角。
 - 光影：自然中性棚拍光，柔和接触阴影，清晰轮廓，不过曝，不悬浮。
 - 容器：同层级使用相同 1:1 或近方形容器，主体占容器 68%–82%，统一内边距和裁切。
-- 色彩：保留物体真实材质色；自然色不计入界面辅助色数量。卡片、边框和数字体系继续由中建蓝主导。
+- 色彩：保留物体真实材质色；自然色不计入界面辅助色数量，并在有真实来源时承担页面约 8%–18% 的冷暖层次。中建蓝控制卡片标题、关键边界和数字主线，不得给所有物体统一套蓝色滤镜，也不得把每个卡片表面都铺成浅蓝。
 - 品牌：不得出现商标、包装文字、水印、型号铭牌或虚构品牌。用户提供的事实照片含品牌且必须保真时，仅在内容账本明确登记后保留。
 - 连续性：同一系列冻结缩略图的视角、光向、阴影强度、主体比例和容器位置；后续页面只替换对象。
 - 来源：有用户照片时优先保留并统一裁切、色温和背景；无照片时允许 ImageGen 生成中性的代表性物料抠图。

diff --git a/README.md b/README.md
@@ -33,7 +33,7 @@
 
 1. 先建立内容账本和语义模型，再开始排版。
 2. 首次设计同类页面时允许重构旧版式；模板冻结后，同类页面只替换数据。
-3. 中建蓝、白色和浅蓝灰占绝对主导，辅助色具有固定语义。
+3. 中建蓝控制关键层级，白色与暖中性表面承担主要承载面；每页最多一种主语义辅助色和一种已登记的微辅助色，并保留照片、材料与设备的真实自然色。
 4. 重复模块、阶段、设备、施工区和班组页面强制使用统一线性图标系统。
 5. 中文文字、数字、专业逻辑和源图事实优先于装饰效果。
 6. 每个输出页面必须由 ImageGen 独立完成整页生成或整页编辑；确定性工具仅用于内容提取、数据计算、尺寸检查和少量精确修正。
